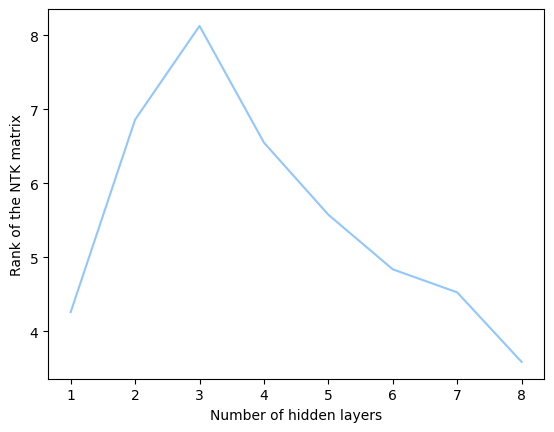
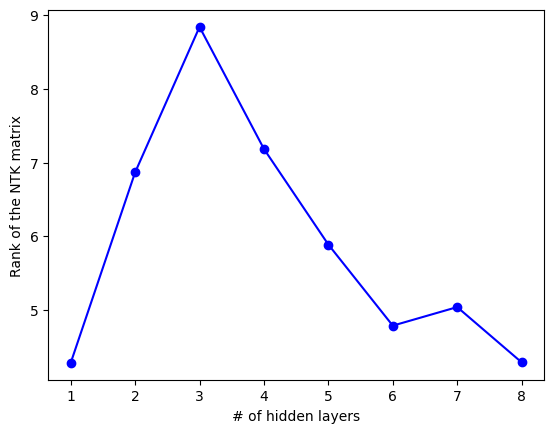
update 'Demystifying the effects of hidden layers on the robustness of neural networks.md' and ntk_rank.png

diff --git a/Demystifying the effects of hidden layers on the robustness of neural networks.md b/Demystifying the effects of hidden layers on the robustness of neural networks.md
@@ -35,7 +35,21 @@ In this work, we also attempt to bridge that gap further and additionally connec
 ## <span style="color:OrangeRed">Setup</span>
 ## <span style="color:OrangeRed">Theoretical Analysis</span>
 ## <span style="color:OrangeRed">Experimental Results</span>
-
+The dataset is chosen to be `yinyang`. The dataset has an associated binary label.
+![[yingyang.png]]
+Eight networks were trained till convergence on this dataset, with their hidden layers ranging from 1 to 8. At the *end of the training*, we calculate the following:
+1. The individual layer ranks of each of the trained models.
+2. The CKA similarity amongst the trained layers of each of the models.
+3. The NTKs of each of the trained models.
+4. The so-called layer-wise NTKs of each of the trained models.
+1, 2 from above result in: 
+![[rank_cka.jpg]]
+On the other hand, the *top-k* eigenvectors of each of the full NTKs result in:
+![[download_0.png]]
+On plotting the ranks of the full NTK for each model give us:
+![[ntk_rank.png]]
+Lastly, the layer-wise NTKs of these models, yields:
+![[layerw_ntk_rank.png]]
 ## <span style="color:OrangeRed">Discussion</span>
 ## <span style="color:OrangeRed">Conclusion</span>
 In this article, we have explored the intriguing interplay between increasing model depth and the emergence of a simplicity bias in deep over-parameterized neural networks, a topic that has sparked considerable debate and investigation in recent research. Our analysis builds upon and unifies the previously isolated findings of Valle-Perez et al., Huh et al., Masarczyk et al., Shah et al., and Tiwari & Shenoy, offering a comprehensive framework that not only encapsulates the phenomena of model expressivity and simplicity bias but also delves into the practical implications of last-layer retraining as a robustness strategy. By identifying the truncation depth with the span of the initial implicit encoder layer, our work sheds light on the underlying mechanics that enable the preservation and recovery of latent features, thus facilitating effective retraining strategies. This insight not only advances our understanding of the structural dynamics within neural networks but also proposes a methodical approach to enhancing model robustness against spurious correlations. As the field continues to evolve, we anticipate that our findings will serve as a foundation for future research aimed at optimizing neural network design for both performance and reliability, particularly in out-of-distribution contexts.
